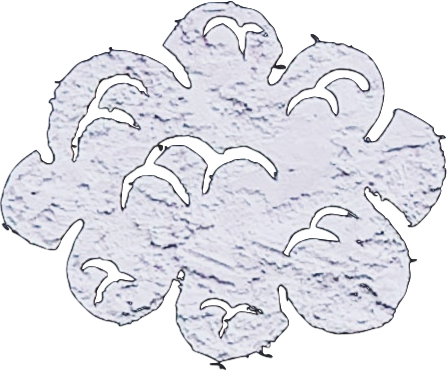
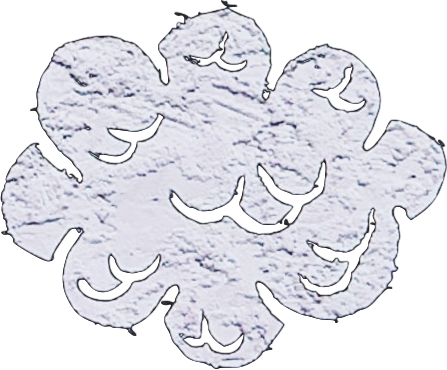
Made all the changes I needed for the 1st section.

diff --git a/index.html b/index.html
@@ -9,24 +9,17 @@
 
 <body>
     <div class="clouds">
-        <div class="firstCloud">  
-            <img src="https://res.cloudinary.com/doaazgsrk/image/upload/v1594046547/Portfolio/cloud1_jfnlr9.png" alt="cloud">    
-        </div>  
-        <div class="secondCloud"> 
-            <img src="https://res.cloudinary.com/doaazgsrk/image/upload/v1594046550/Portfolio/cloud3_tfoqeb.png" alt="cloud">
-        </div>
-        <div class="thirdCloud">
-            <img src="https://res.cloudinary.com/doaazgsrk/image/upload/v1594046548/Portfolio/cloud2_aeieee.png" alt="cloud">
-        </div>    
-        <div class="fourthCloud">
-            <img src="https://res.cloudinary.com/doaazgsrk/image/upload/v1594046551/Portfolio/cloud4_coxw42.png" alt="cloud">
-        </div>   
+        <img id="firstCloud" src="https://res.cloudinary.com/doaazgsrk/image/upload/v1594053819/Portfolio/cloud1_qkqmlk.png" alt="cloud">    
+        <img id="secondCloud" src="https://res.cloudinary.com/doaazgsrk/image/upload/v1594053818/Portfolio/cloud2_jtzyh7.png" alt="cloud">    
+        <img id="thirdCloud" src="https://res.cloudinary.com/doaazgsrk/image/upload/v1594053819/Portfolio/cloud3_ji5ake.png" alt="cloud">
+        <img id="fourthCloud" src="https://res.cloudinary.com/doaazgsrk/image/upload/v1594053818/Portfolio/cloud4_vqvdlh.png" alt="cloud">
+        <img id="fifthCloud" src="https://res.cloudinary.com/doaazgsrk/image/upload/v1594053818/Portfolio/cloud5_meekao.png" alt="cloud">
+        <img id="sixthCloud" src="https://res.cloudinary.com/doaazgsrk/image/upload/v1594053820/Portfolio/cloud6_vxf0e2.png" alt="cloud"> 
     </div>
     <header>
         <div class="introduction">
-            <h1>Full-stack Web Developer | Ben Phan </h1>
-            <h2>Hello World!</h2>
-            <h3>My name is Ben Phan. I am a third-year undergraduate from the University of Saskatchewan. My goal is to become a full-stack web developer.</h3>
+            <h1>Ben Phan<br><span id="job-title">Full-stack Web Developer</span><br>from Saskatoon, Saskatchewan</h1>
+            <img src="https://res.cloudinary.com/doaazgsrk/image/upload/v1594053247/Portfolio/chalk_un1iom.png" alt="blue chalk">
         </div>
     </header>
 

diff --git a/resources/css/background-decor.css b/resources/css/background-decor.css
@@ -1,4 +1,5 @@
-.clouds {
+/* Introduction section decors */
+.clouds {                    /* Cloud decors */
     position: fixed;
     height: 0rem;
     z-index: 0;
@@ -9,40 +10,78 @@
     height: auto;
 }
 
-.firstCloud img{
+#firstCloud, #fifthCloud{
     width: 15rem;
 }
   
-.firstCloud {
+#firstCloud {
     position: absolute;
     left: -60rem;
     top: -1rem;
-    animation: move 40s linear infinite;
+    animation: move 20s linear 5s infinite;
 }
 
-.secondCloud {
+#secondCloud {
+    position: absolute;
+    left: -60rem;
+    top: -1rem;
+    animation: move 20s linear 35s infinite;
+}
+
+#thirdCloud {
     position: absolute;
     left: -60rem;
     top: 8rem;
-    animation: move 55s linear 9s infinite;
+    animation: move 20s linear 19s infinite;
 }
 
-.thirdCloud {
+#fourthCloud {
     position: absolute;
     left: -60rem;
     top: 30rem;
-    animation: move 43s linear 5s infinite;
+    animation: move 20s linear 10s infinite;
 }
 
-.fourthCloud {
+#fifthCloud {
+    position: absolute;
+    left: -60rem;
+    top: 33rem;
+    animation: move 20s linear 17s infinite;
+}
+
+#sixthCloud {
     position: absolute;
     left: -60rem;
     top: 40rem;
-    animation: move 30s linear infinite;
+    animation: move 20s linear infinite;
 }
 
 @keyframes move {
     100% {
         left: 50vw;
+    }
+}
+
+.introduction img {      /* Blue chalk decor */
+    position: absolute;
+    height: 2rem;
+    width: auto;
+    left: 30rem;
+    animation: write-title 4s linear infinite;
+}
+
+#job-title {
+    animation: change-to-blue 4s linear infinite;
+}
+
+@keyframes write-title {
+    50% {
+        transform: rotate(-45deg);
+    }
+}
+
+@keyframes change-to-blue {
+    50% {
+        color: rgb(98, 190, 221);
     }
 }

diff --git a/resources/css/index.css b/resources/css/index.css
@@ -1,6 +1,7 @@
 html {
     font-family: 'Cabin Sketch', cursive;
     color: white;
+    text-align: center;
     background-image: url('https://res.cloudinary.com/doaazgsrk/image/upload/v1594046553/Portfolio/main-background_aldqzi.jpg');
     background-size: 100% auto;
 }
@@ -21,7 +22,19 @@ header {
 
 .introduction {
     position: relative;
+    display: flex;
+    flex-wrap: wrap;
+    line-height: 4rem;
     border: 0.2rem double white;
-    width: 40rem;
-    z-index: 10;
+    z-index: 1;
+}
+
+.introduction h1 {
+    margin: 0;
+    font-size: 2rem;
+}
+
+#job-title {
+    font-size: 3rem;
+    z-index: 2;
 }
